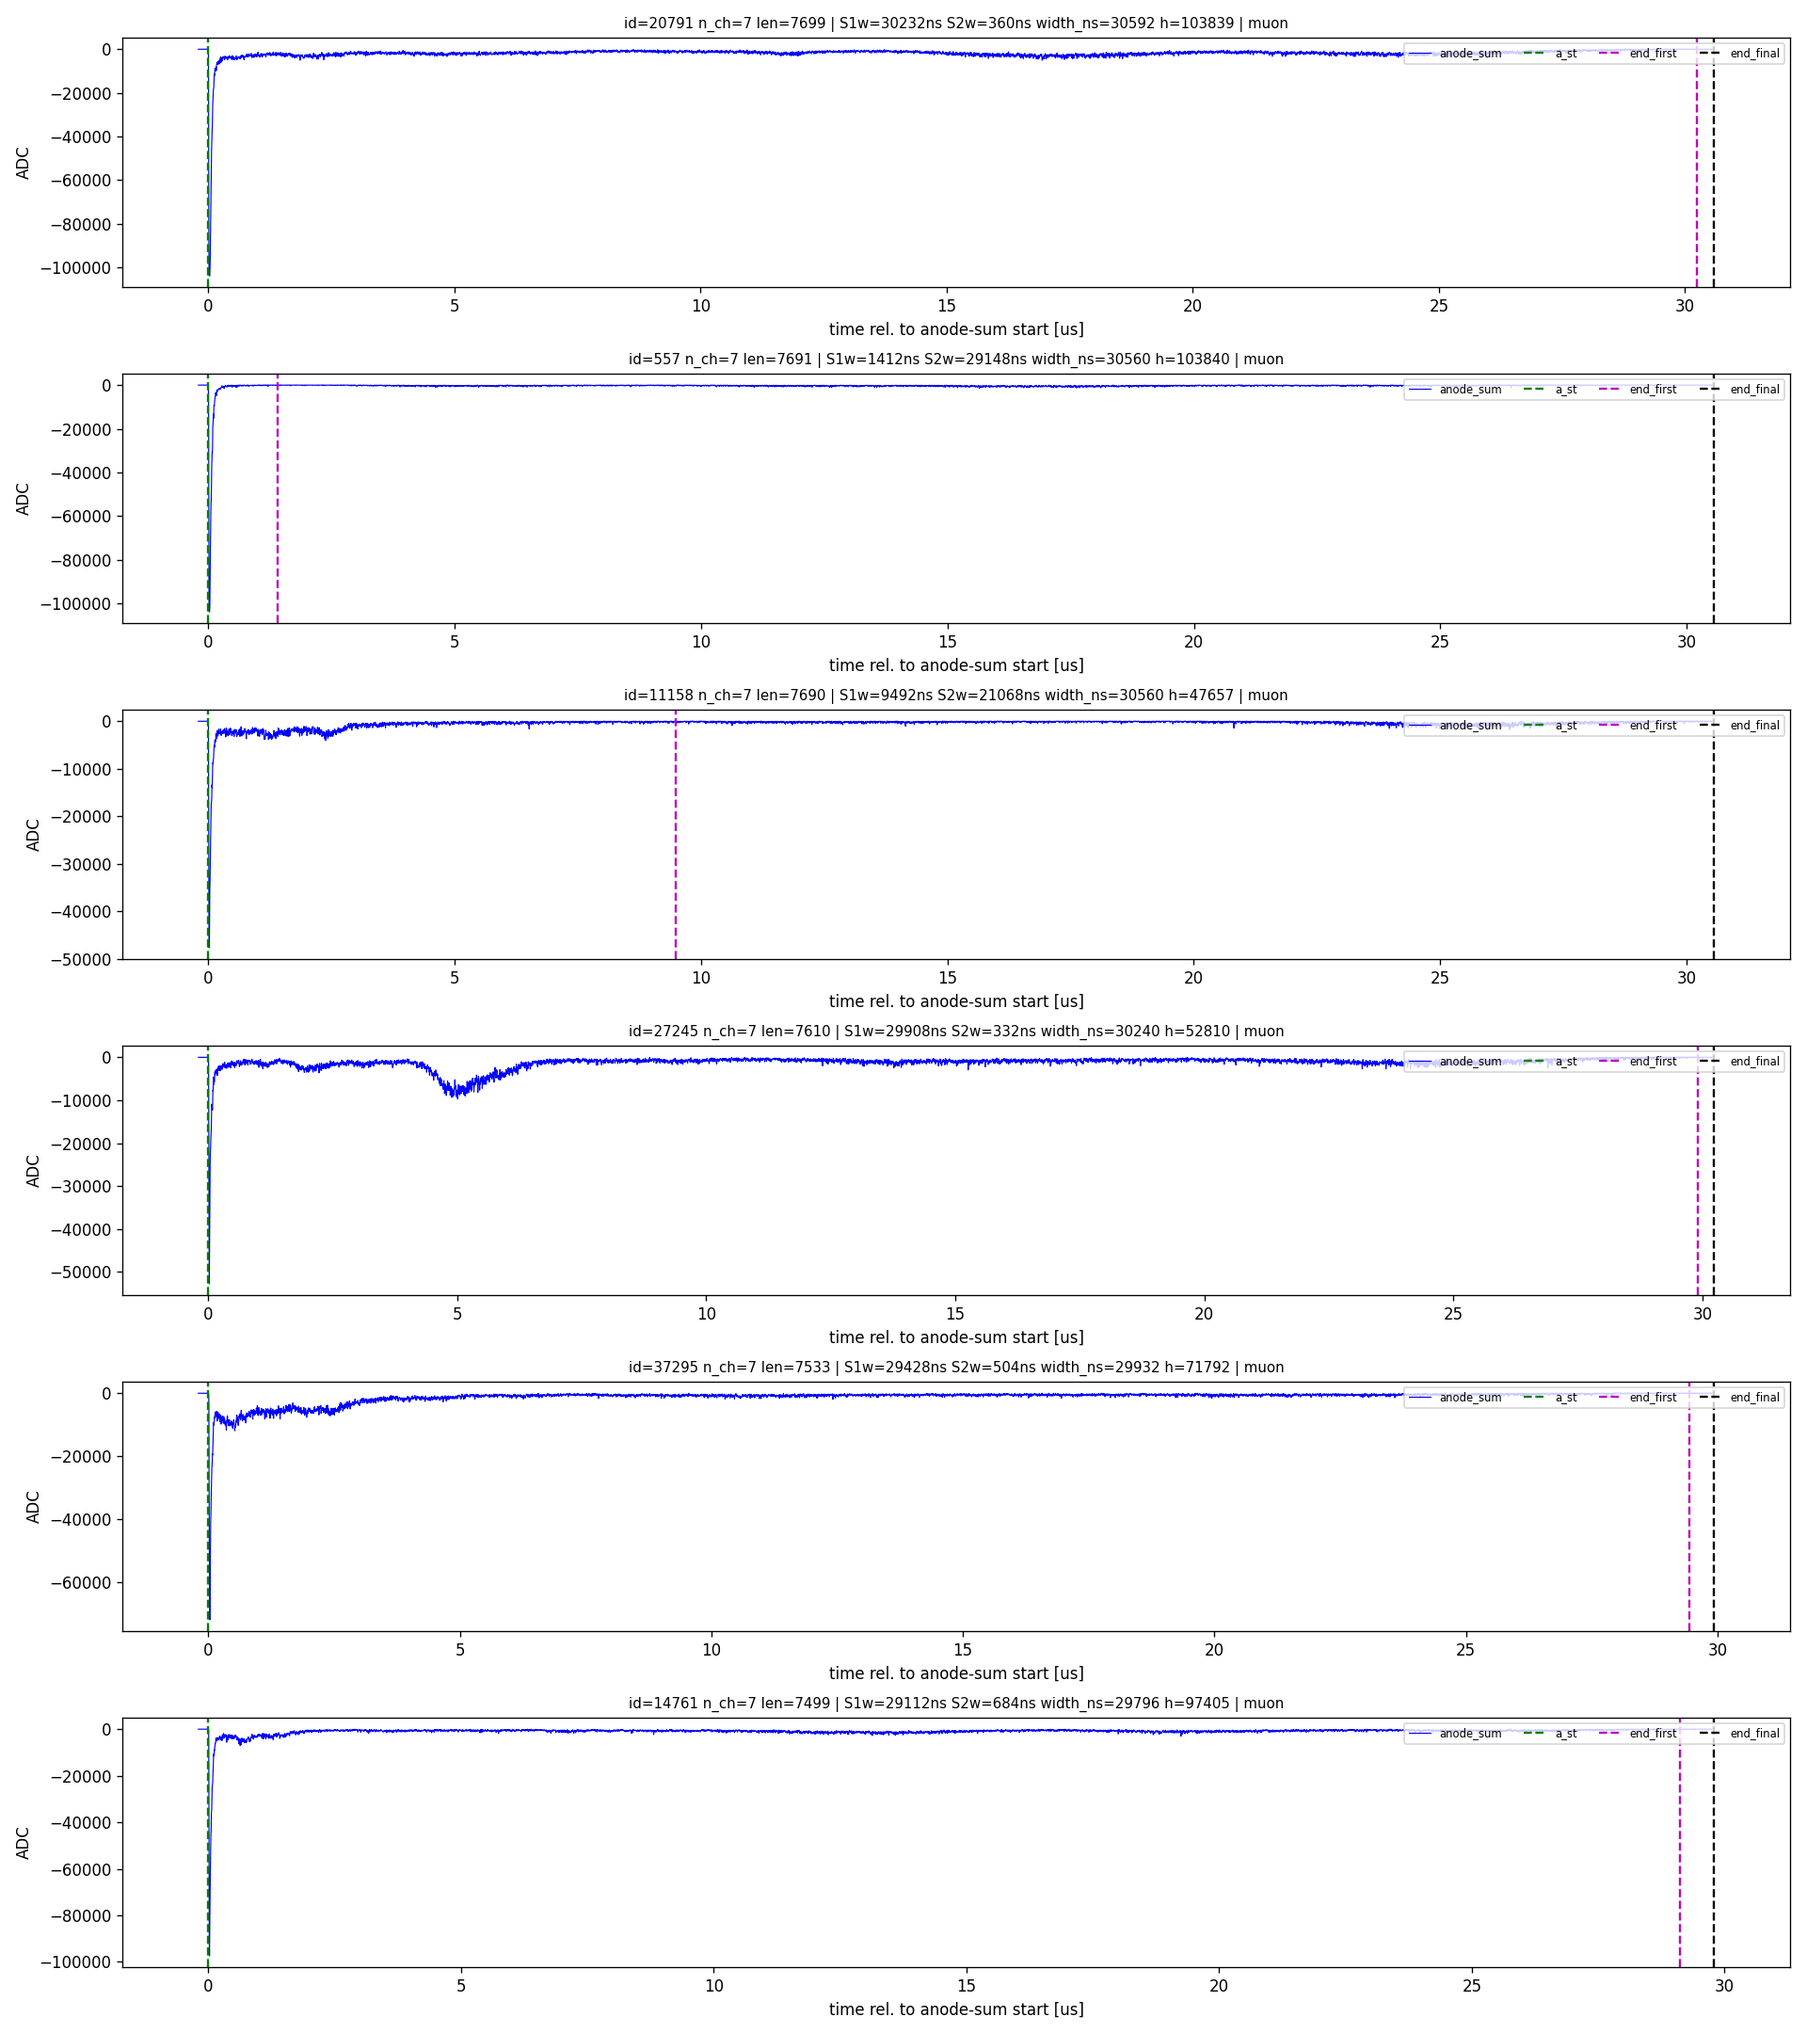
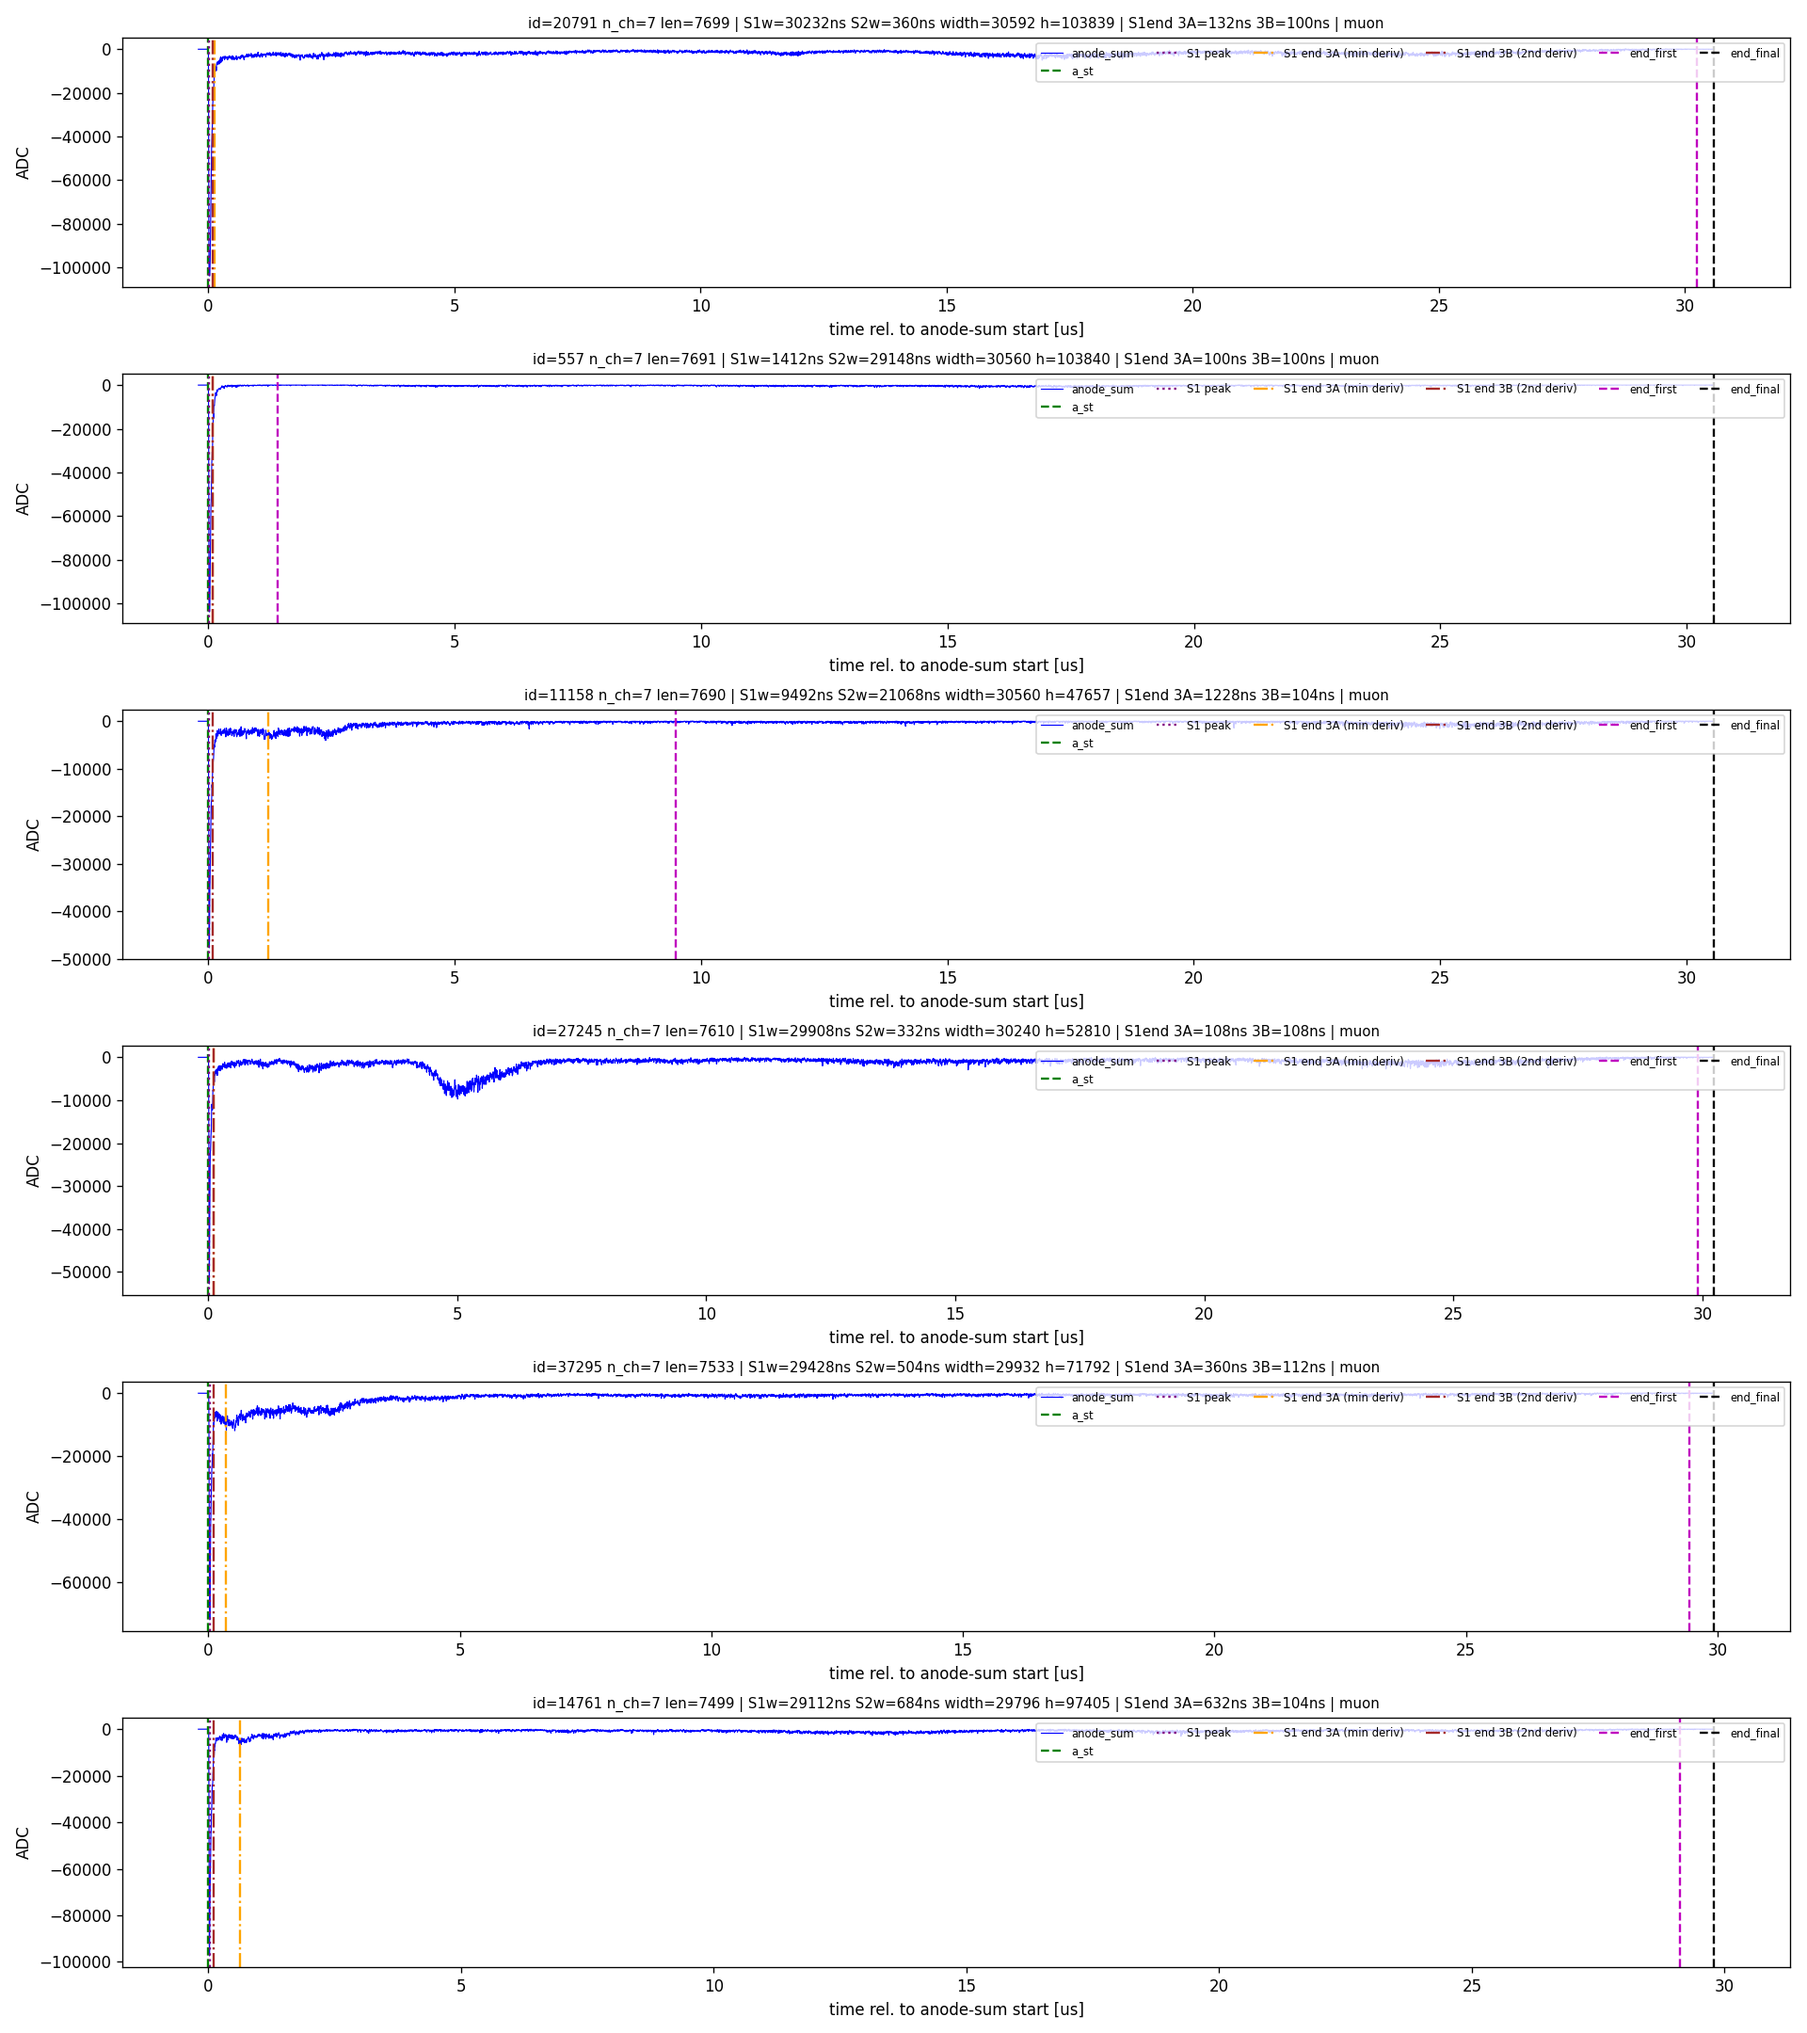
Implement find_s1_endpoint_from_peak (3A min-derivative / 3B 2nd-derivative); draw S1 end on long-peak diagnosis

diff --git a/scripts/diagnose_long_peaks.py b/scripts/diagnose_long_peaks.py
@@ -13,9 +13,13 @@ from muon_analysis.io.runinfo import get_runinfo
 from muon_analysis.io.readers import read_data
 from muon_analysis.matching import match_events
 from muon_analysis.clustering import cluster_peaks
-from muon_analysis.pulsefinding import compute_peak_start_end, find_sum_pulse_bounds
+from muon_analysis.pulsefinding import (compute_peak_start_end, find_sum_pulse_bounds,
+                                              find_s1_endpoint_from_peak)
 from muon_analysis.features import compute_peak_features
 from muon_analysis.gain import build_gain_db
+
+MIN_DECAY = 20
+MAX_DECAY = 500
 
 cfg = build_config()
 cfg["matching"]["dynode_shift_ns"] = -16
@@ -54,21 +58,41 @@ for ax, (pk, pf) in zip(axes, picks):
     ax.plot(t, s, "b-", lw=0.7, label="anode_sum")
     if pf.dynode_sum is not None and len(pf.dynode_sum) == len(s):
         ax.plot(t, pf.dynode_sum, "r-", lw=0.7, alpha=0.6, label="dynode_sum")
-    for x, c, lb in [(a_st, "g", "a_st"), (pf.end_first_sample, "m", "end_first"),
-                     (pf.end_final_sample, "k", "end_final")]:
-        ax.axvline((x - a_st) * 4 / 1000.0, color=c, ls="--", lw=1.4, label=lb)
+    s1_peak = int(np.argmin(s))
+    s1_end_a = find_s1_endpoint_from_peak(s, s1_peak, min_decay=MIN_DECAY,
+                                          max_decay=MAX_DECAY, polarity="negative",
+                                          method="min_derivative")
+    s1_end_b = find_s1_endpoint_from_peak(s, s1_peak, min_decay=MIN_DECAY,
+                                          max_decay=MAX_DECAY, polarity="negative",
+                                          method="second_derivative")
+    for x, c, lb, ls in [(a_st, "g", "a_st", "--"),
+                         (s1_peak, "purple", "S1 peak", ":"),
+                         (s1_end_a, "orange", "S1 end 3A (min deriv)", "-."),
+                         (s1_end_b, "brown", "S1 end 3B (2nd deriv)", "-."),
+                         (pf.end_first_sample, "m", "end_first", "--"),
+                         (pf.end_final_sample, "k", "end_final", "--")]:
+        ax.axvline((x - a_st) * 4 / 1000.0, color=c, ls=ls, lw=1.4, label=lb)
     ax.set_title(f"id={pk.peaks_id} n_ch={len(pk.anode_records)} "
-                 f"len={pf.wave_len_samples} | S1w={pf.muon_s1_width:.0f}ns "
-                 f"S2w={pf.muon_s2_width:.0f}ns width={pf.width:.0f} "
-                 f"h={pf.height:.0f} | {pf.signal_type}", fontsize=9)
+                 f"len={pf.wave_len_samples} | S1w={pf.muon_s1_width_ns:.0f}ns "
+                 f"S2w={pf.muon_s2_width_ns:.0f}ns width={pf.width:.0f} "
+                 f"h={pf.height:.0f} | S1end 3A={(s1_end_a-a_st)*4:.0f}ns "
+                 f"3B={(s1_end_b-a_st)*4:.0f}ns | {pf.signal_type}", fontsize=9)
     ax.set_xlabel("time rel. to anode-sum start [us]")
     ax.set_ylabel("ADC")
-    ax.legend(fontsize=7, ncol=5, loc="upper right")
+    ax.legend(fontsize=7, ncol=6, loc="upper right")
 fig.tight_layout()
 out = "/mnt/data/tmp/muon_analysis/co60_590/peak_level_v2/long_peaks_diagnosis.png"
 fig.savefig(out, dpi=120)
 print("saved:", out)
 for pk, pf in picks:
-    print(f"  id={pk.peaks_id} len={pf.wave_len_samples} end_first={pf.end_first_sample} "
-          f"end_final={pf.end_final_sample} S1w={pf.muon_s1_width:.0f} "
-          f"S2w={pf.muon_s2_width:.0f}")
+    s = np.asarray(pf.anode_sum, dtype=float)
+    b = find_sum_pulse_bounds(s, pf.dynode_sum, cfg)
+    a_st = b["anode"][0] if "anode" in b else 0
+    s1_peak = int(np.argmin(s))
+    a = find_s1_endpoint_from_peak(s, s1_peak, MIN_DECAY, MAX_DECAY, "negative",
+                                   "min_derivative")
+    bb = find_s1_endpoint_from_peak(s, s1_peak, MIN_DECAY, MAX_DECAY, "negative",
+                                    "second_derivative")
+    print(f"  id={pk.peaks_id} S1peak={s1_peak} 3A={a} ({(a-a_st)*4:.0f}ns) "
+          f"3B={bb} ({(bb-a_st)*4:.0f}ns) end_first={pf.end_first_sample} "
+          f"end_final={pf.end_final_sample}")

diff --git a/src/muon_analysis/pulsefinding.py b/src/muon_analysis/pulsefinding.py
@@ -302,3 +302,53 @@ def find_wave_final_end(waveform, config) -> int:
         return 0
     below = np.nonzero(w < tol)[0]
     return int(below[-1]) if len(below) else n - 1
+
+
+def find_s1_endpoint_from_peak(
+    waveform,
+    s1_peak_idx: int,
+    min_decay: int = 20,
+    max_decay: int = 500,
+    polarity: str = "negative",
+    method: str = "min_derivative",
+) -> int:
+    """S1 end point (== S2 start point) to the right of the S1 peak.
+
+    The S1 and S2 components are joined in one waveform, so the boundary is
+    looked for on the S1 falling edge, over the search window
+    ``[min_decay, max_decay]`` (samples after the peak):
+
+      - ``method="min_derivative"`` (step 3A): the sample with the most negative
+        forward difference -- the steepest decay point.
+      - ``method="second_derivative"`` (step 3B): the first sample where the
+        second difference turns positive -- the point where the decay stops
+        accelerating (start of the flattening).
+
+    ``polarity="negative"`` (anode sum) flips the waveform first so that the
+    decay is a negative slope, matching the positive-pulse (dynode) convention.
+    Returns the sample index in the ORIGINAL waveform; falls back to
+    ``s1_peak_idx + min_decay`` when the window is degenerate.
+
+    See ``docs/muon_s1_s2_cutpoint_algorithm.md``.
+    """
+    y = np.asarray(waveform, dtype=float)
+    if polarity == "negative":
+        y = -y
+    start = int(s1_peak_idx)
+    y_right = y[start:]
+    if len(y_right) < 3:
+        return start
+    y_prime = np.diff(y_right)
+    search_start = max(0, int(min_decay))
+    search_end = min(int(max_decay), len(y_prime) - 1)
+    if search_end <= search_start:
+        return start + min(search_start, len(y_prime) - 1)
+    if method == "second_derivative":
+        y2 = np.diff(y_prime)
+        window = y2[search_start:search_end]
+        turning = np.nonzero(window > 0)[0]
+        if len(turning):
+            return start + search_start + int(turning[0])
+        return start + search_start + int(np.argmax(window))
+    idx_rel = search_start + int(np.argmin(y_prime[search_start:search_end]))
+    return start + idx_rel
